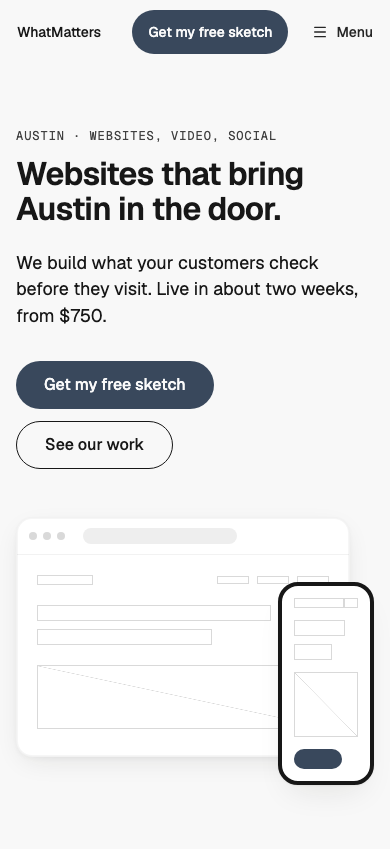
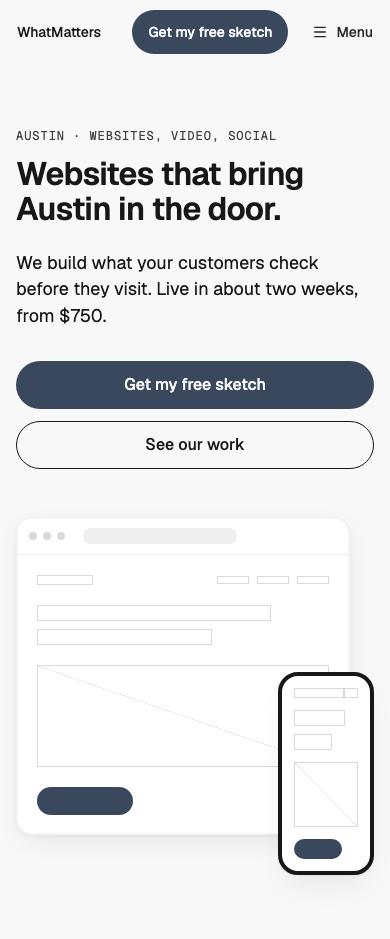
Hero — Split, PD's calls: 1:1 visual on phones (the fold cuts it, R4), actions stack full width on phones (U8), bleed for real work only; README notes display-2 as the split exception to D3

diff --git a/patterns/hero/split/HeroSplit.tsx b/patterns/hero/split/HeroSplit.tsx
@@ -57,8 +57,11 @@ const copyClasses = {
 const headlineClasses = "type-display-2 min-w-0 max-w-full text-balance [overflow-wrap:anywhere]";
 /** Headline → lead 24; a lead in ink, measure 42rem at most (Lead L4, L8). */
 const leadClasses = "mt-6 max-w-[42rem] text-pretty text-fg type-lead";
-/** Lead → actions 32; primary first (Buttons U8). */
-const actionsClasses = "mt-8 flex flex-wrap items-center gap-3";
+/**
+ * Lead → actions 32; primary first (Buttons U8). On phones the pair doesn't fit one row beside a half-width
+ * column's worth of copy, so it stacks full width, primary on top; a row from md.
+ */
+const actionsClasses = "mt-8 flex flex-col items-stretch gap-3 self-stretch md:flex-row md:flex-wrap md:items-center md:self-start";
 /**
  * Actions → visual 48 on phones and tablets (the grid's 24px row gap plus 24). From lg, columns 7–12 on the
  * copy's row.
@@ -70,10 +73,10 @@ const visualCellClasses = "col-span-full mt-6 min-w-0 lg:col-start-7 lg:col-span
  */
 const visualBleedClasses = "lg:mr-[calc((min(100vw,var(--grid-max))-100vw)*0.5-var(--grid-margin))]";
 /**
- * At least 4:3 below lg, and no clip: a taller picture grows the frame instead of being cropped. From lg it
- * takes the picture's own shape.
+ * At least 1:1 on phones, so the fold cuts it mid-frame at 390×844 (the scroll cue, Hero R4); at least 4:3 on
+ * tablets. No clip: a taller picture grows the frame instead of being cropped. From lg, the picture's own shape.
  */
-const visualFrameClasses = "flex aspect-[4/3] w-full items-stretch [&>*]:w-full lg:aspect-auto";
+const visualFrameClasses = "flex aspect-square w-full items-stretch [&>*]:w-full md:aspect-[4/3] lg:aspect-auto";
 
 export function HeroSplit({
   nav,

diff --git a/patterns/hero/split/README.md b/patterns/hero/split/README.md
@@ -41,17 +41,17 @@ import { HeroSplit } from "./HeroSplit";
 | `nav` | slot, optional | Leave it empty when the page already has a nav (the usual case). For a standalone page pass a WMDS `<SiteNav>` with `mobileAction` |
 | `eyebrow` | ReactNode | Optional. 1–4 words in sentence case, 12px above the headline. A plain `type-eyebrow` label unless `eyebrowHref` is set |
 | `eyebrowHref` | string, optional | Where the eyebrow links. With it, the eyebrow is one outlined pill link (WMDS Badge); a pill never appears without a link and is never filled (Eyebrow E10) |
-| `headline` | ReactNode | The page's only H1: **12 words at most**, 2 lines from 600px wide, 3 on phones (Display D6, D7). WMDS `type-display-2` |
+| `headline` | ReactNode | The page's only H1: **12 words at most**, 2 lines from 600px wide, 3 on phones (Display D6, D7). WMDS `type-display-2`: the split exception to D3 (split uses display-2; display-hero is for full-width heroes) |
 | `lead` | ReactNode | Optional. 1–2 sentences in ink, measure 42rem at most (Lead L4, L7, L8) |
-| `primaryAction` | slot | One WMDS `<Button role="primary" size="lg">` (Hero R2, Buttons U7) |
+| `primaryAction` | slot | One WMDS `<Button role="primary" size="lg">` (Hero R2, Buttons U7). On phones the actions stack full width, primary on top (U8); a row from tablet |
 | `secondaryAction` | slot, optional | One WMDS `<Button role="outline" size="lg">`, after the primary (U8). A third action becomes a text link elsewhere |
-| `visual` | slot, optional | The real thing (R8). At least 4:3 on phones and tablets (it grows, never crops); beside the copy on columns 7–12 from desktop. Give it real alt text when it shows work a reader should see |
-| `visualBleed` | boolean, default `false` | From desktop, the visual runs past the content edge to the viewport's right edge (Grid G9); its inner edge stays on the column 7 line |
+| `visual` | slot, optional | The real thing (R8). At least 1:1 on phones (the fold cuts it, the scroll cue) and 4:3 on tablets (it grows, never crops); beside the copy on columns 7–12 from desktop. Give it real alt text when it shows work a reader should see |
+| `visualBleed` | boolean, default `false` | From desktop, the visual runs past the content edge to the viewport's right edge (Grid G9); its inner edge stays on the column 7 line. For real work imagery (a product screen, a photo) only: a framed sketch or device touching the screen edge reads as a mistake |
 | `tone` | `"default" \| "inverse" \| "field"` | The WMDS Band tone. Every WMDS part inside re-skins |
 
 ## Knobs
 
-- The headline step: `type-display-2` (`--text-display-2-size`). Keep the step; shorten the copy (D7). `type-display-hero` is a wordmark step (230px at 1440) and breaks a 12-word headline into 8 lines.
+- The headline step: `type-display-2` (`--text-display-2-size`), the split exception to D3: a half-width column can't hold the full-width hero size (display-hero is for full-width heroes). Keep the step; shorten the copy (D7).
 - Spacing is WMDS Band `lg` (96px, 64px on phones). Eyebrow→headline 12, headline→lead 24, lead→actions 32, actions→visual 48 on phones.
 
 ## Adapt it
@@ -59,14 +59,14 @@ import { HeroSplit } from "./HeroSplit";
 The first item is the example the gallery's Copy prompt uses.
 
 - **No visual:** leave `visual` empty; the copy stays left-aligned on columns 1–8. If the headline is 2 lines or fewer, a centred hero reads better (R7).
-- **Bleeding visual:** set `visualBleed` for a product screen that runs off the right edge.
+- **Bleeding visual:** set `visualBleed` for a product screen or photo that runs off the right edge; not for frames or devices.
 - **Brand surface:** `tone="inverse"` puts the hero on the brand colour; WMDS buttons and text follow.
 - **Long headline (14 words):** it wraps to 3 lines at 390 without clipping (D5), but shorten it to 12; never shrink the type.
 - **Animation:** none by default. Add it in your copy if the page wants it (one moment, under reduced motion still).
 
 ## Spacing and fold
 
-At 1440×900 the headline, lead and actions are on screen and the hero ends above the fold, so the next section's top edge shows (R4, R6). At 390×844 the actions are above the fold; whether the visual is cut by the fold depends on the picture's height.
+At 1440×900 the headline, lead and actions are on screen and the hero ends above the fold, so the next section's top edge shows (R4, R6). At 390×844 the actions are above the fold and the 1:1 visual is cut by it mid-frame (the scroll cue, R4).
 
 ## WMDS-GAPs
 
